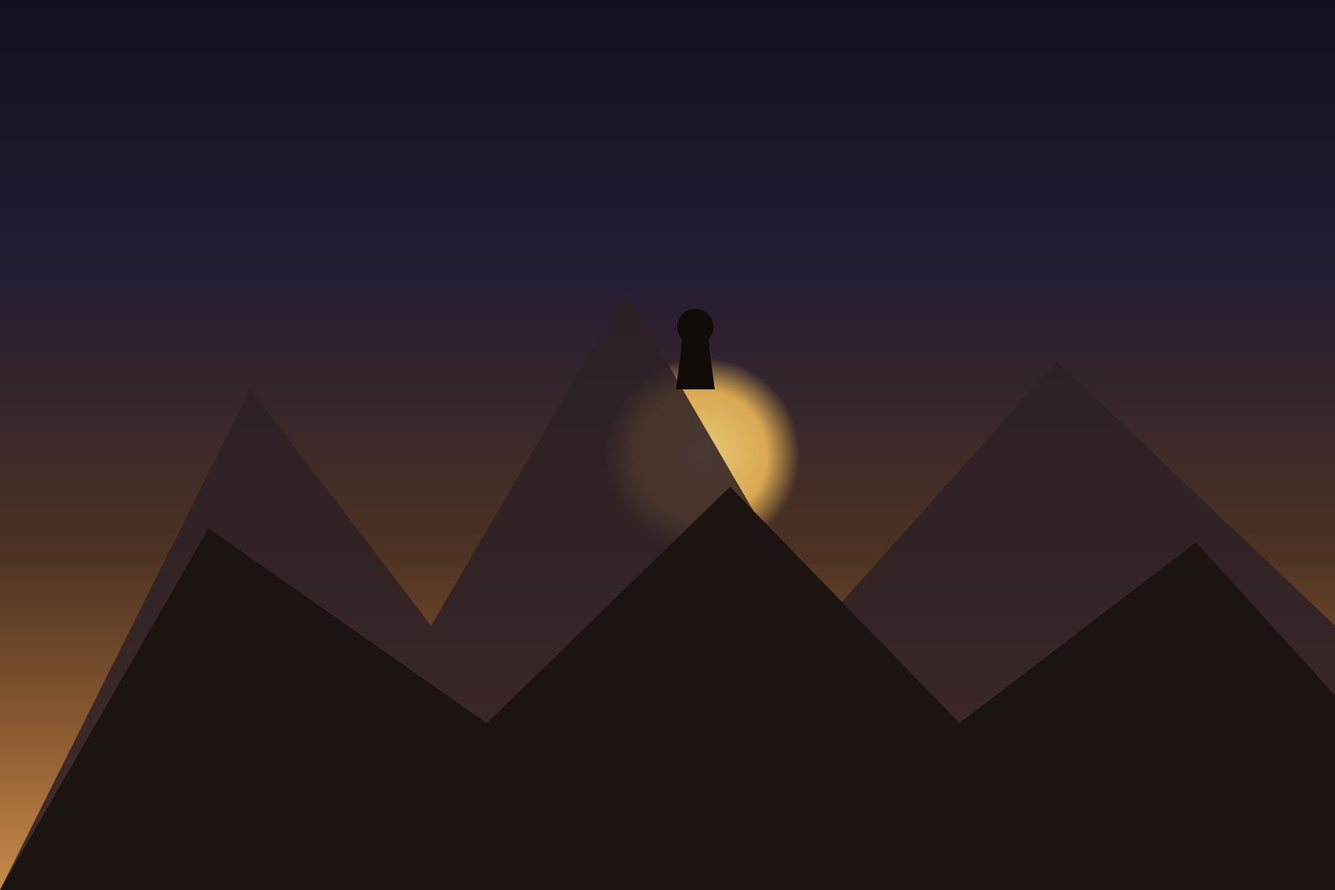
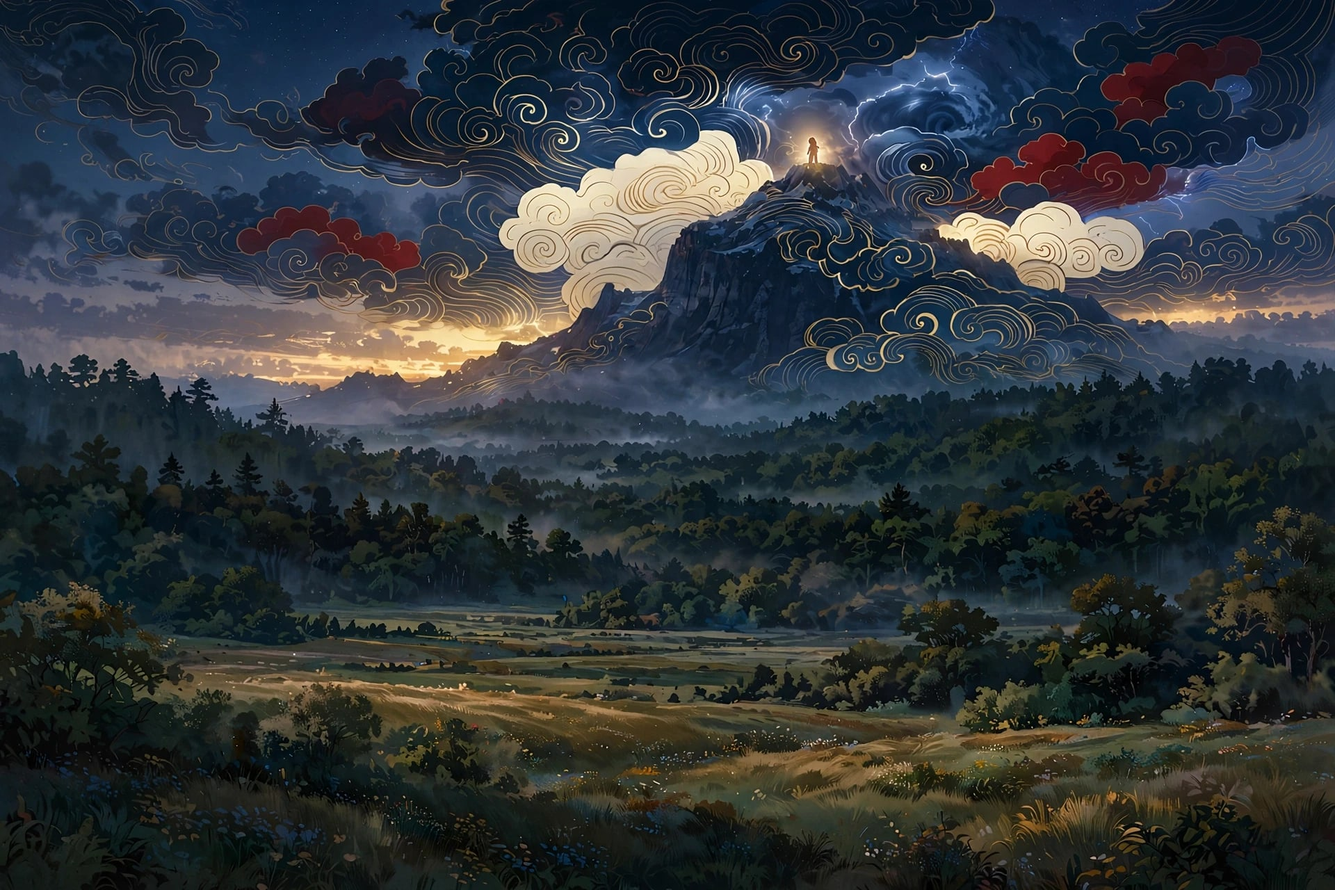
Install the real hero illustration; roughen text edges
- public/hero.jpg is now the uploaded artwork (figure upon the peak beneath
  the golden clouds), replacing the placeholder
- A fine displacement filter gives the written text a rough, inked-on-paper
  edge to match the hand-drawn manuscript, tuned to stay legible

Claude-Session: https://claude.ai/code/session_01NrJiz4V2aL7LXTpx3jw27a

diff --git a/app/globals.css b/app/globals.css
@@ -1397,3 +1397,15 @@ table { width: 100%; border-collapse: collapse; font-variant-numeric: tabular-nu
   color: var(--verdigris);
   margin-top: .3rem;
 }
+
+/* ————— rough, inked edges on the written text ————— */
+.leaf-running, .leaf-dex, .leaf-name, .leaf-genus, .leaf-crests, .leaf-from,
+.entry-hand-head, .hand-notes, .rec-label, .rec-dl, .rec-measures .st-key,
+.rec-arts, .lin-step, .leaf-foot, .codex-title,
+.hero-eyebrow, .hero-title, .hero-sub, .hero-cta,
+.tooling-title, .tooling-sub, .tooling-foot, .kb-eyebrow, .kb-name,
+.study-eyebrow, .study-invite, .ribbon, .search-card {
+  filter: url(#roughen-text);
+}
+/* the big Tangerine numerals read better crisp */
+.rec-measures .st-val { filter: none; }

diff --git a/components/GlobalDefs.tsx b/components/GlobalDefs.tsx
@@ -27,6 +27,11 @@ export default function GlobalDefs() {
           <feTurbulence type="fractalNoise" baseFrequency="0.014 0.02" numOctaves="2" seed="4" result="n" />
           <feDisplacementMap in="SourceGraphic" in2="n" scale="5" xChannelSelector="R" yChannelSelector="G" />
         </filter>
+        {/* fine jitter to give written text a rough, inked-on-paper edge */}
+        <filter id="roughen-text" x="-2%" y="-2%" width="104%" height="104%">
+          <feTurbulence type="fractalNoise" baseFrequency="0.045" numOctaves="2" seed="9" result="n" />
+          <feDisplacementMap in="SourceGraphic" in2="n" scale="1.3" xChannelSelector="R" yChannelSelector="G" />
+        </filter>
       </defs>
     </svg>
   );
